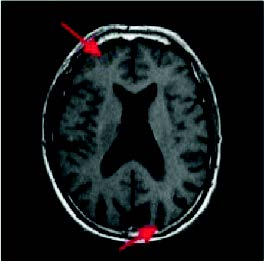
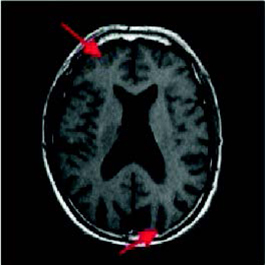
optimize the fusion images,flashxt,2017.11.10

diff --git a/DIP_Project/src/HomeWork2/MainClass.java b/DIP_Project/src/HomeWork2/MainClass.java
@@ -23,9 +23,9 @@ public class MainClass extends JPanel{
 //			    e.printStackTrace();
 //		}
 		
-	    JPG jpg1 = new JPG("images\\Fig11.jpg");
-	    JPG jpg2 = new JPG("images\\Fig12.jpg");
-	    String dest = "Figfusion3.jpg";
+	    JPG jpg1 = new JPG("images\\Fig1.jpg");
+	    JPG jpg2 = new JPG("images\\Fig1.jpg");
+	    String dest = "Figfusion.jpg";
 	    Algorithms.ImageFusion(jpg1,jpg2,0.5,0.5,dest);
 	    
 	}
